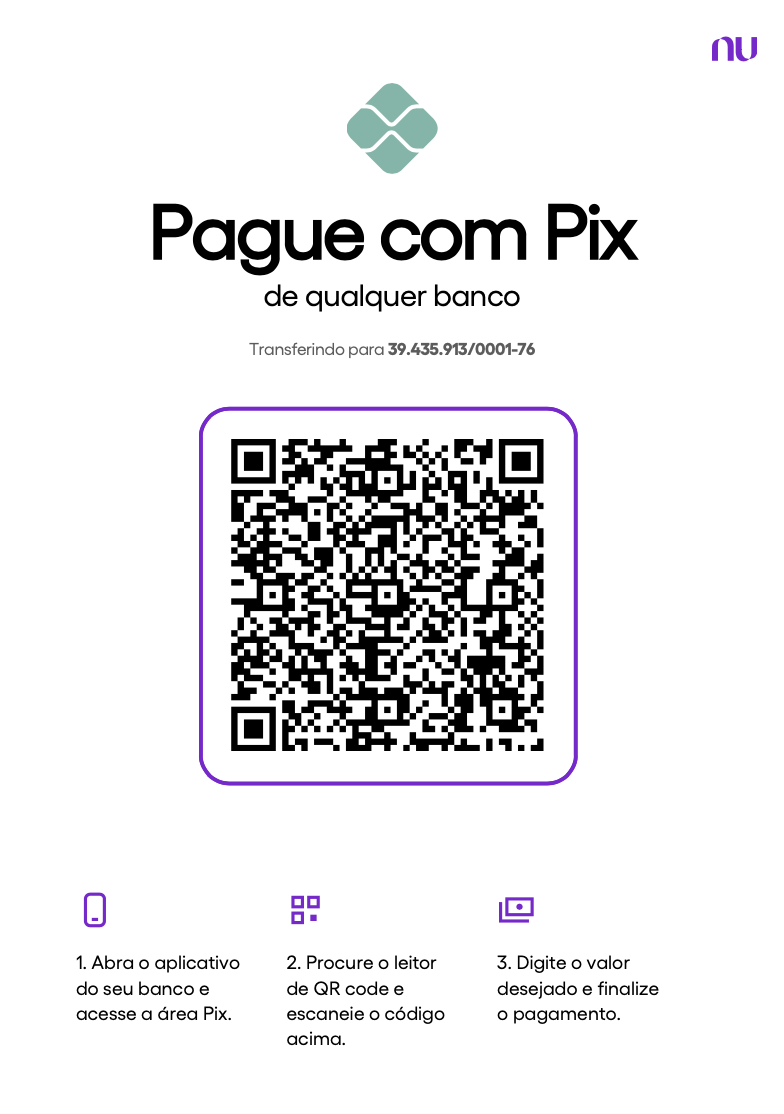
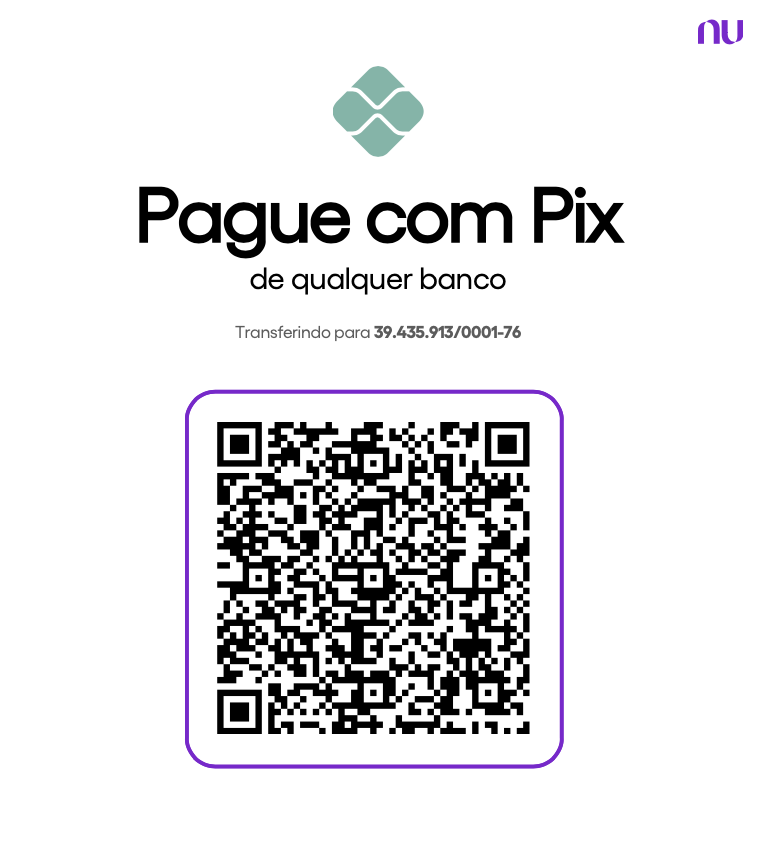
Loja: QR Code PIX maior, remover título duplicado (já está na imagem)

Changed region(s): [[0.0911, 0.0607, 0.8507, 0.9416], [0.9115, 0.0, 1.0, 0.0607]]

diff --git a/app/loja/page.tsx b/app/loja/page.tsx
@@ -571,8 +571,7 @@ export default function LojaPage() {
                                             </div>
                                             {paymentMethod === 'PIX' && (
                                                 <div className="mt-3 bg-gray-50 rounded-xl p-5 text-center">
-                                                    <p className="text-base font-black uppercase text-black mb-3">Pague com PIX</p>
-                                                    <img src="/pix-qrcode.png" alt="QR Code PIX" className="w-full max-w-xs mx-auto rounded-xl object-contain mb-4" />
+                                                    <img src="/pix-qrcode.png" alt="QR Code PIX" className="w-full max-w-sm mx-auto rounded-xl object-contain mb-4" />
                                                     <div className="text-left bg-white rounded-lg p-3 mb-4 space-y-1.5">
                                                         <p className="text-sm text-gray-700"><strong>1.</strong> Abra o app do seu banco e acesse a área PIX</p>
                                                         <p className="text-sm text-gray-700"><strong>2.</strong> Escaneie o QR Code acima ou copie a chave abaixo</p>
